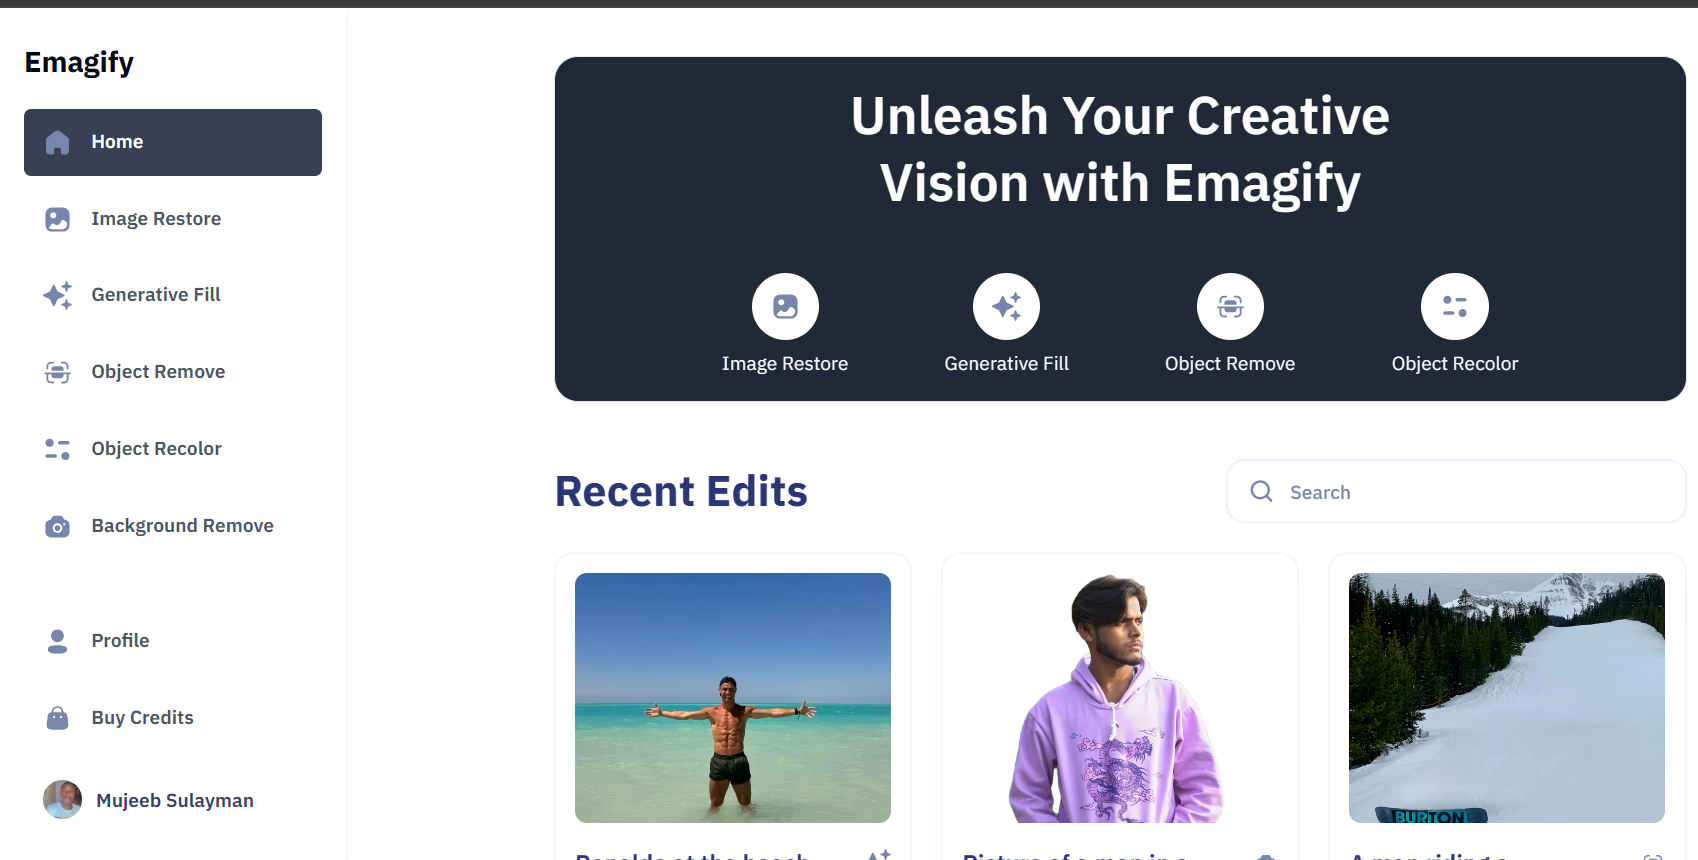
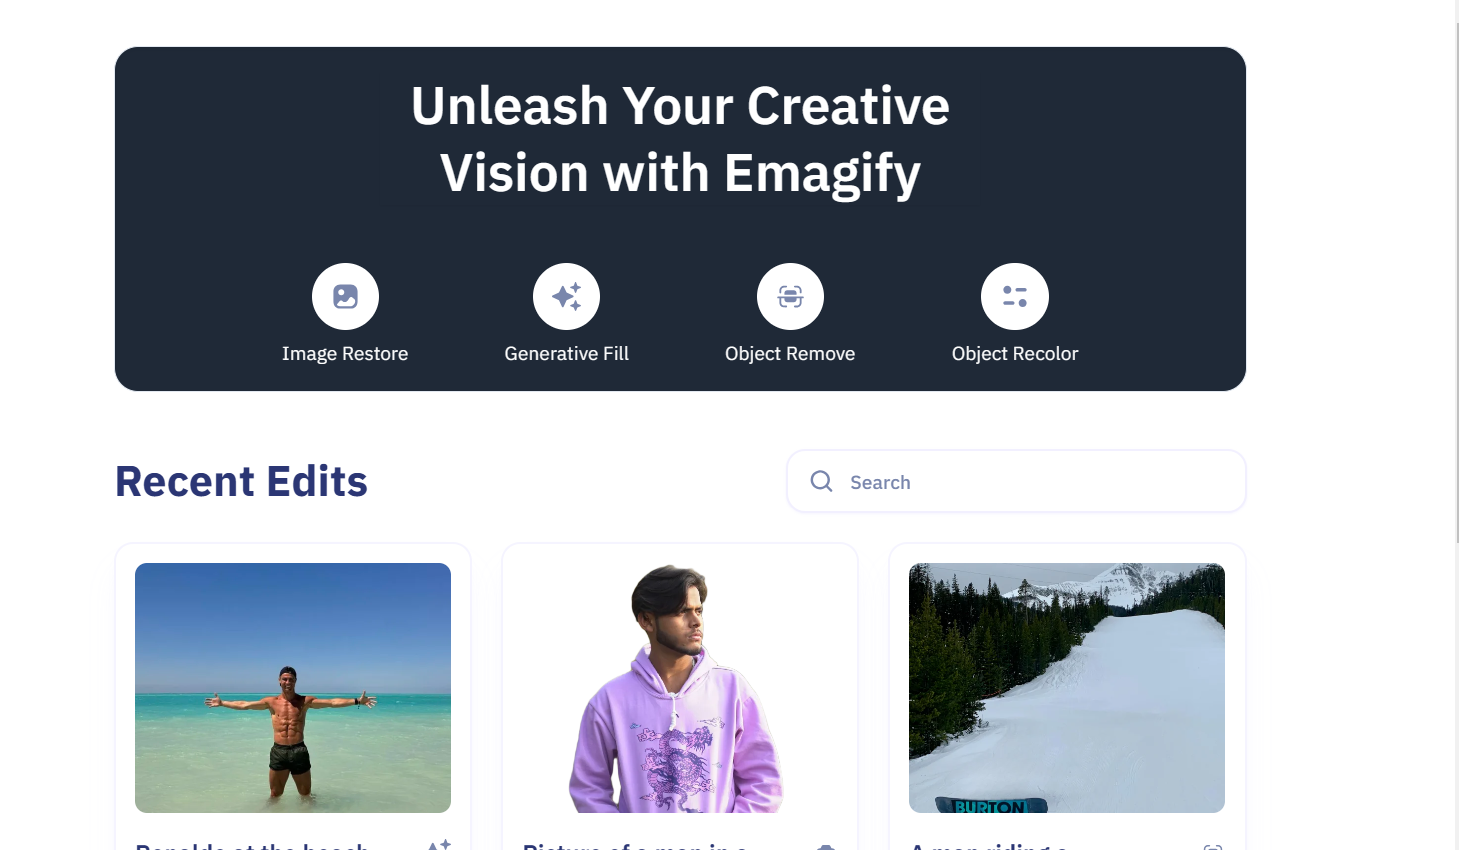
New project image

diff --git a/app/components/ProjectsSection.jsx b/app/components/ProjectsSection.jsx
@@ -121,7 +121,7 @@ const projectsData = [
 		title: 'Emagify AI',
 		description:
 			'Emagify AI is an AI web app that allows user to restore old image color, resize image, remove background and also remove object from Picture',
-		image: '/images/project/11.PNG',
+		image: '/images/project/12.PNG',
 		tag: ['All', 'React.Js'],
 		gitUrl: 'https://github.com/MujeebSulayman/Emagify-AI',
 		previewUrl: 'https://emagify-ai.vercel.app//',
